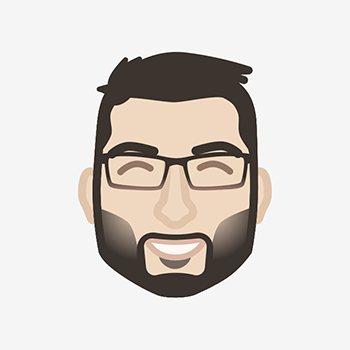
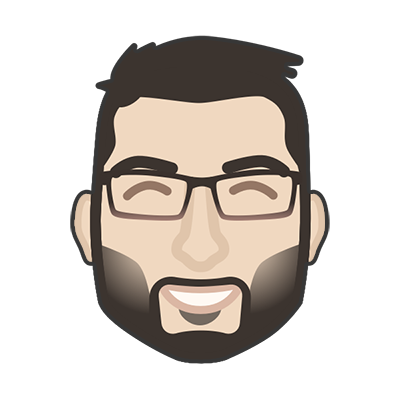
Added support for prefers-color-scheme and updated image

Changed region(s): [[0.1714, 0.0857, 0.8286, 0.9143]]

diff --git a/index.html b/index.html
@@ -3,26 +3,44 @@
 <head>
 	<meta charset="utf-8">
 	<title>bonjour</title>
+	<meta name="supported-color-schemes" content="light dark">
 
 	<style type="text/css">
+		/*
+			Dark: #373F47;
+			Light: #F5F5F5;
+		*/
+
+		@media (prefers-color-scheme: light) {
+			:root {
+				--site-bgcolor: #F5F5F5;
+				}
+			}
+		@media (prefers-color-scheme: dark) {
+			:root {
+				--site-bgcolor: #373F47;
+				}
+			}
 		html {
 			width:100%;
 			height:100%;
 			background:url(./moi.png) center center no-repeat;
-			background-color: #F5F5F5;
+			background-color: var(--site-bgcolor);
+			color: var(--site-color, #111);
+			font: 100%/1.5 system-ui;
 		}
 		img {
 			position: absolute;
 			top: 50%;
 			left: 50%;
-			width: 350px;
-			height: 350px;
-			margin-top: -175px; /* Half the height */
-			margin-left: -175px; /* Half the width */
+			width: 400px;
+			height: 400px;
+			margin-top: -200px; /* Half the height */
+			margin-left: -200px; /* Half the width */
 		}
 	</style>
 </head>
 <body>
-	<!-- hello -->
+	<!-- hello? -->
 </body>
 </html>
